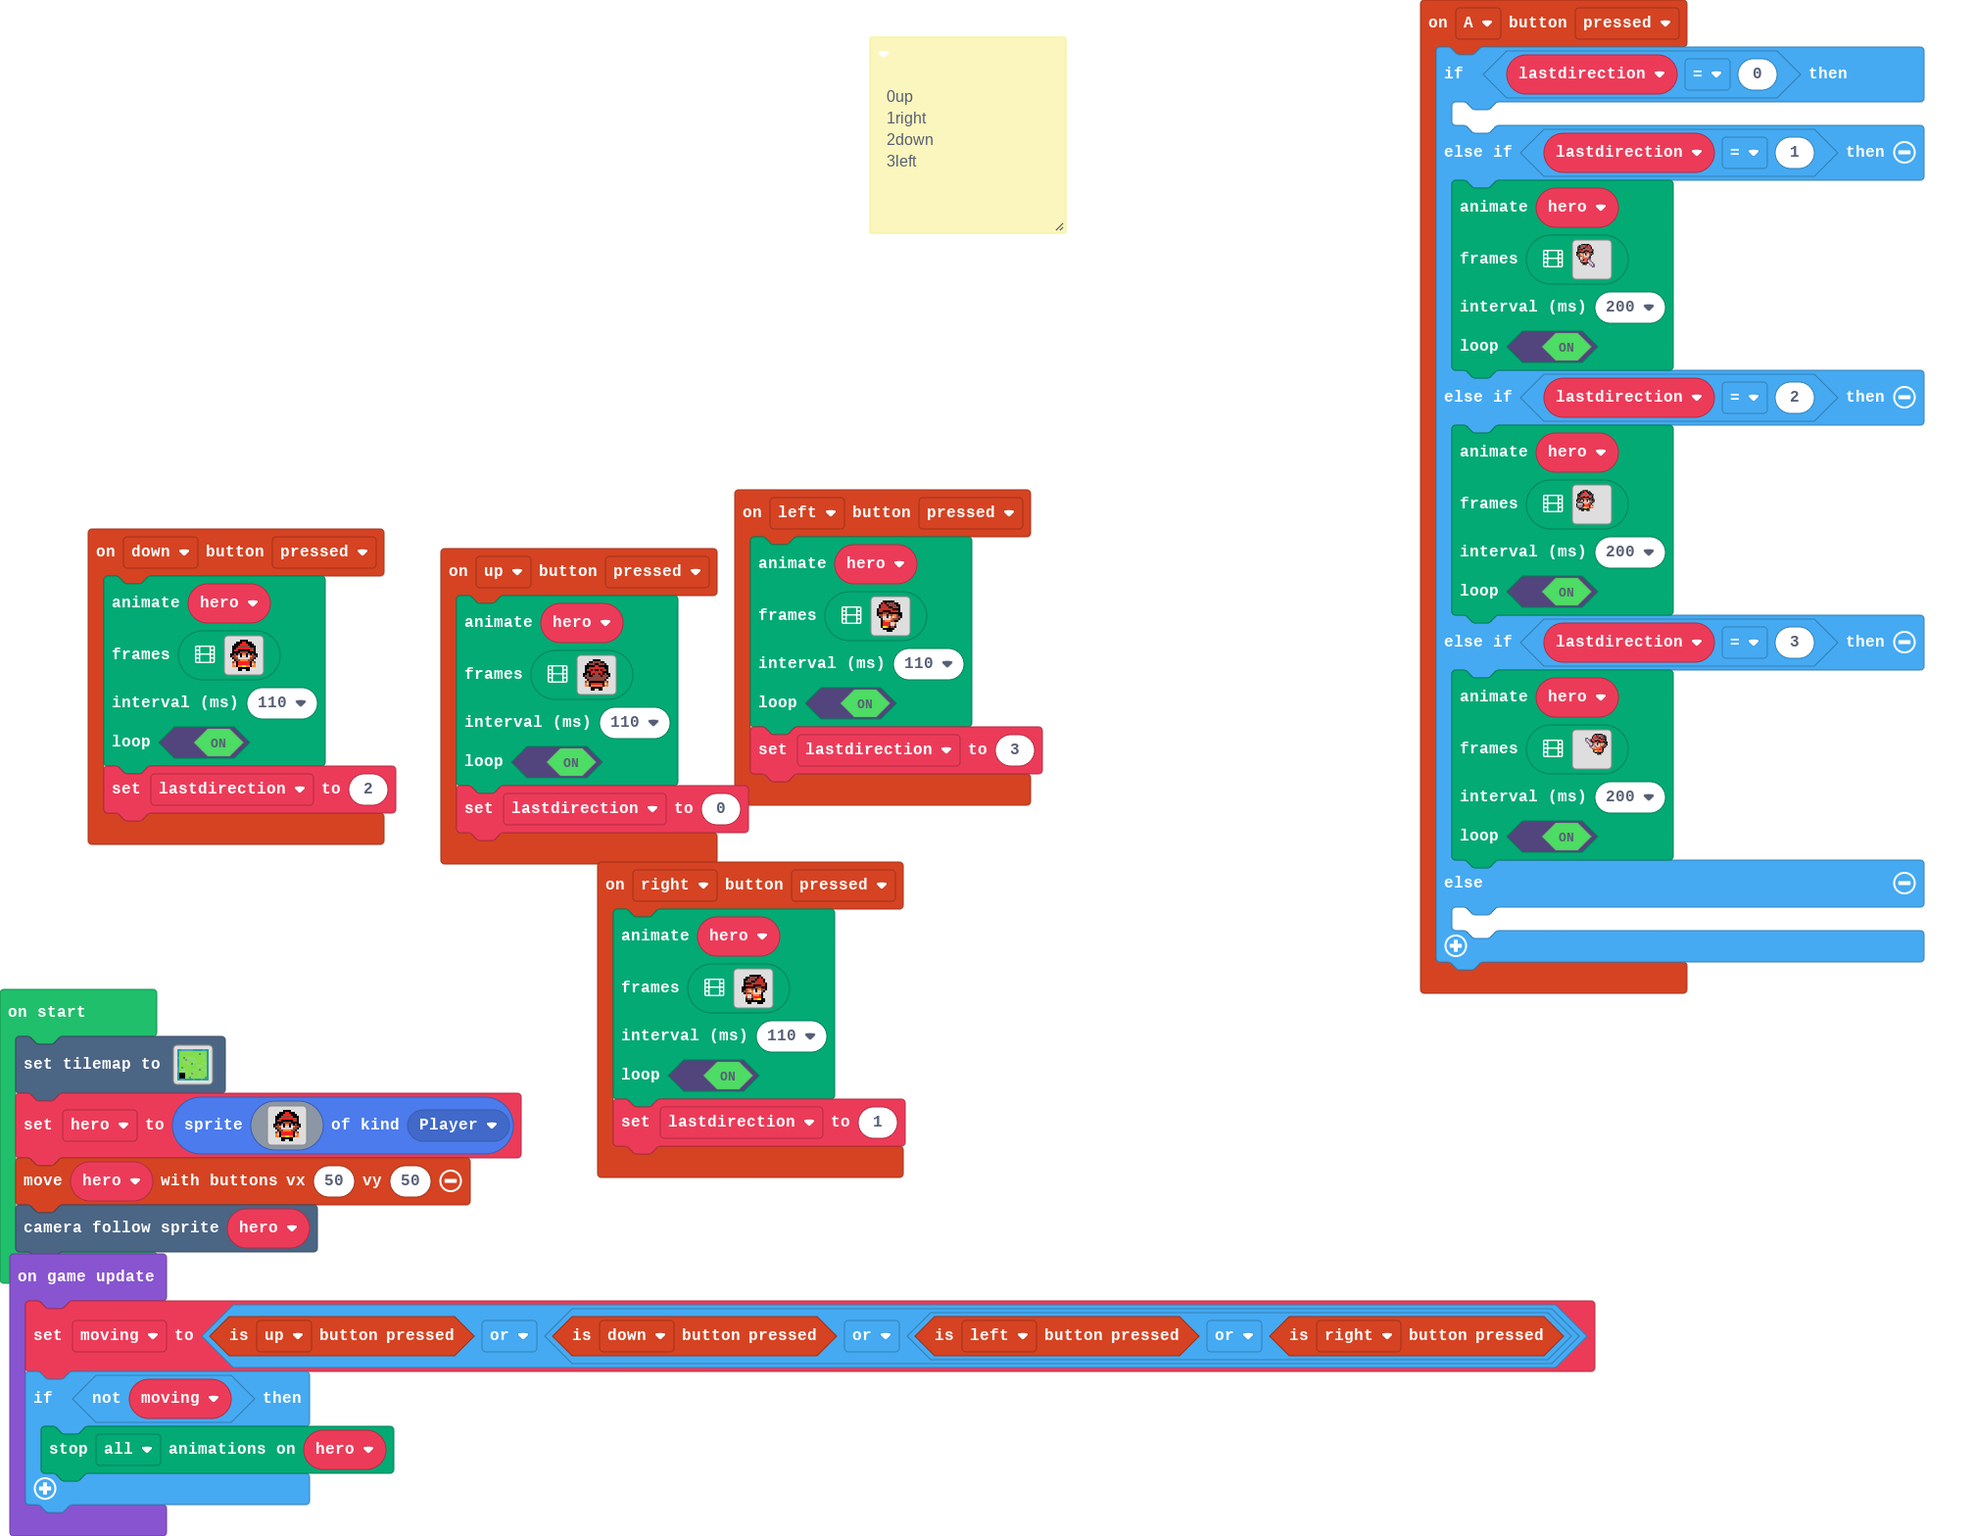
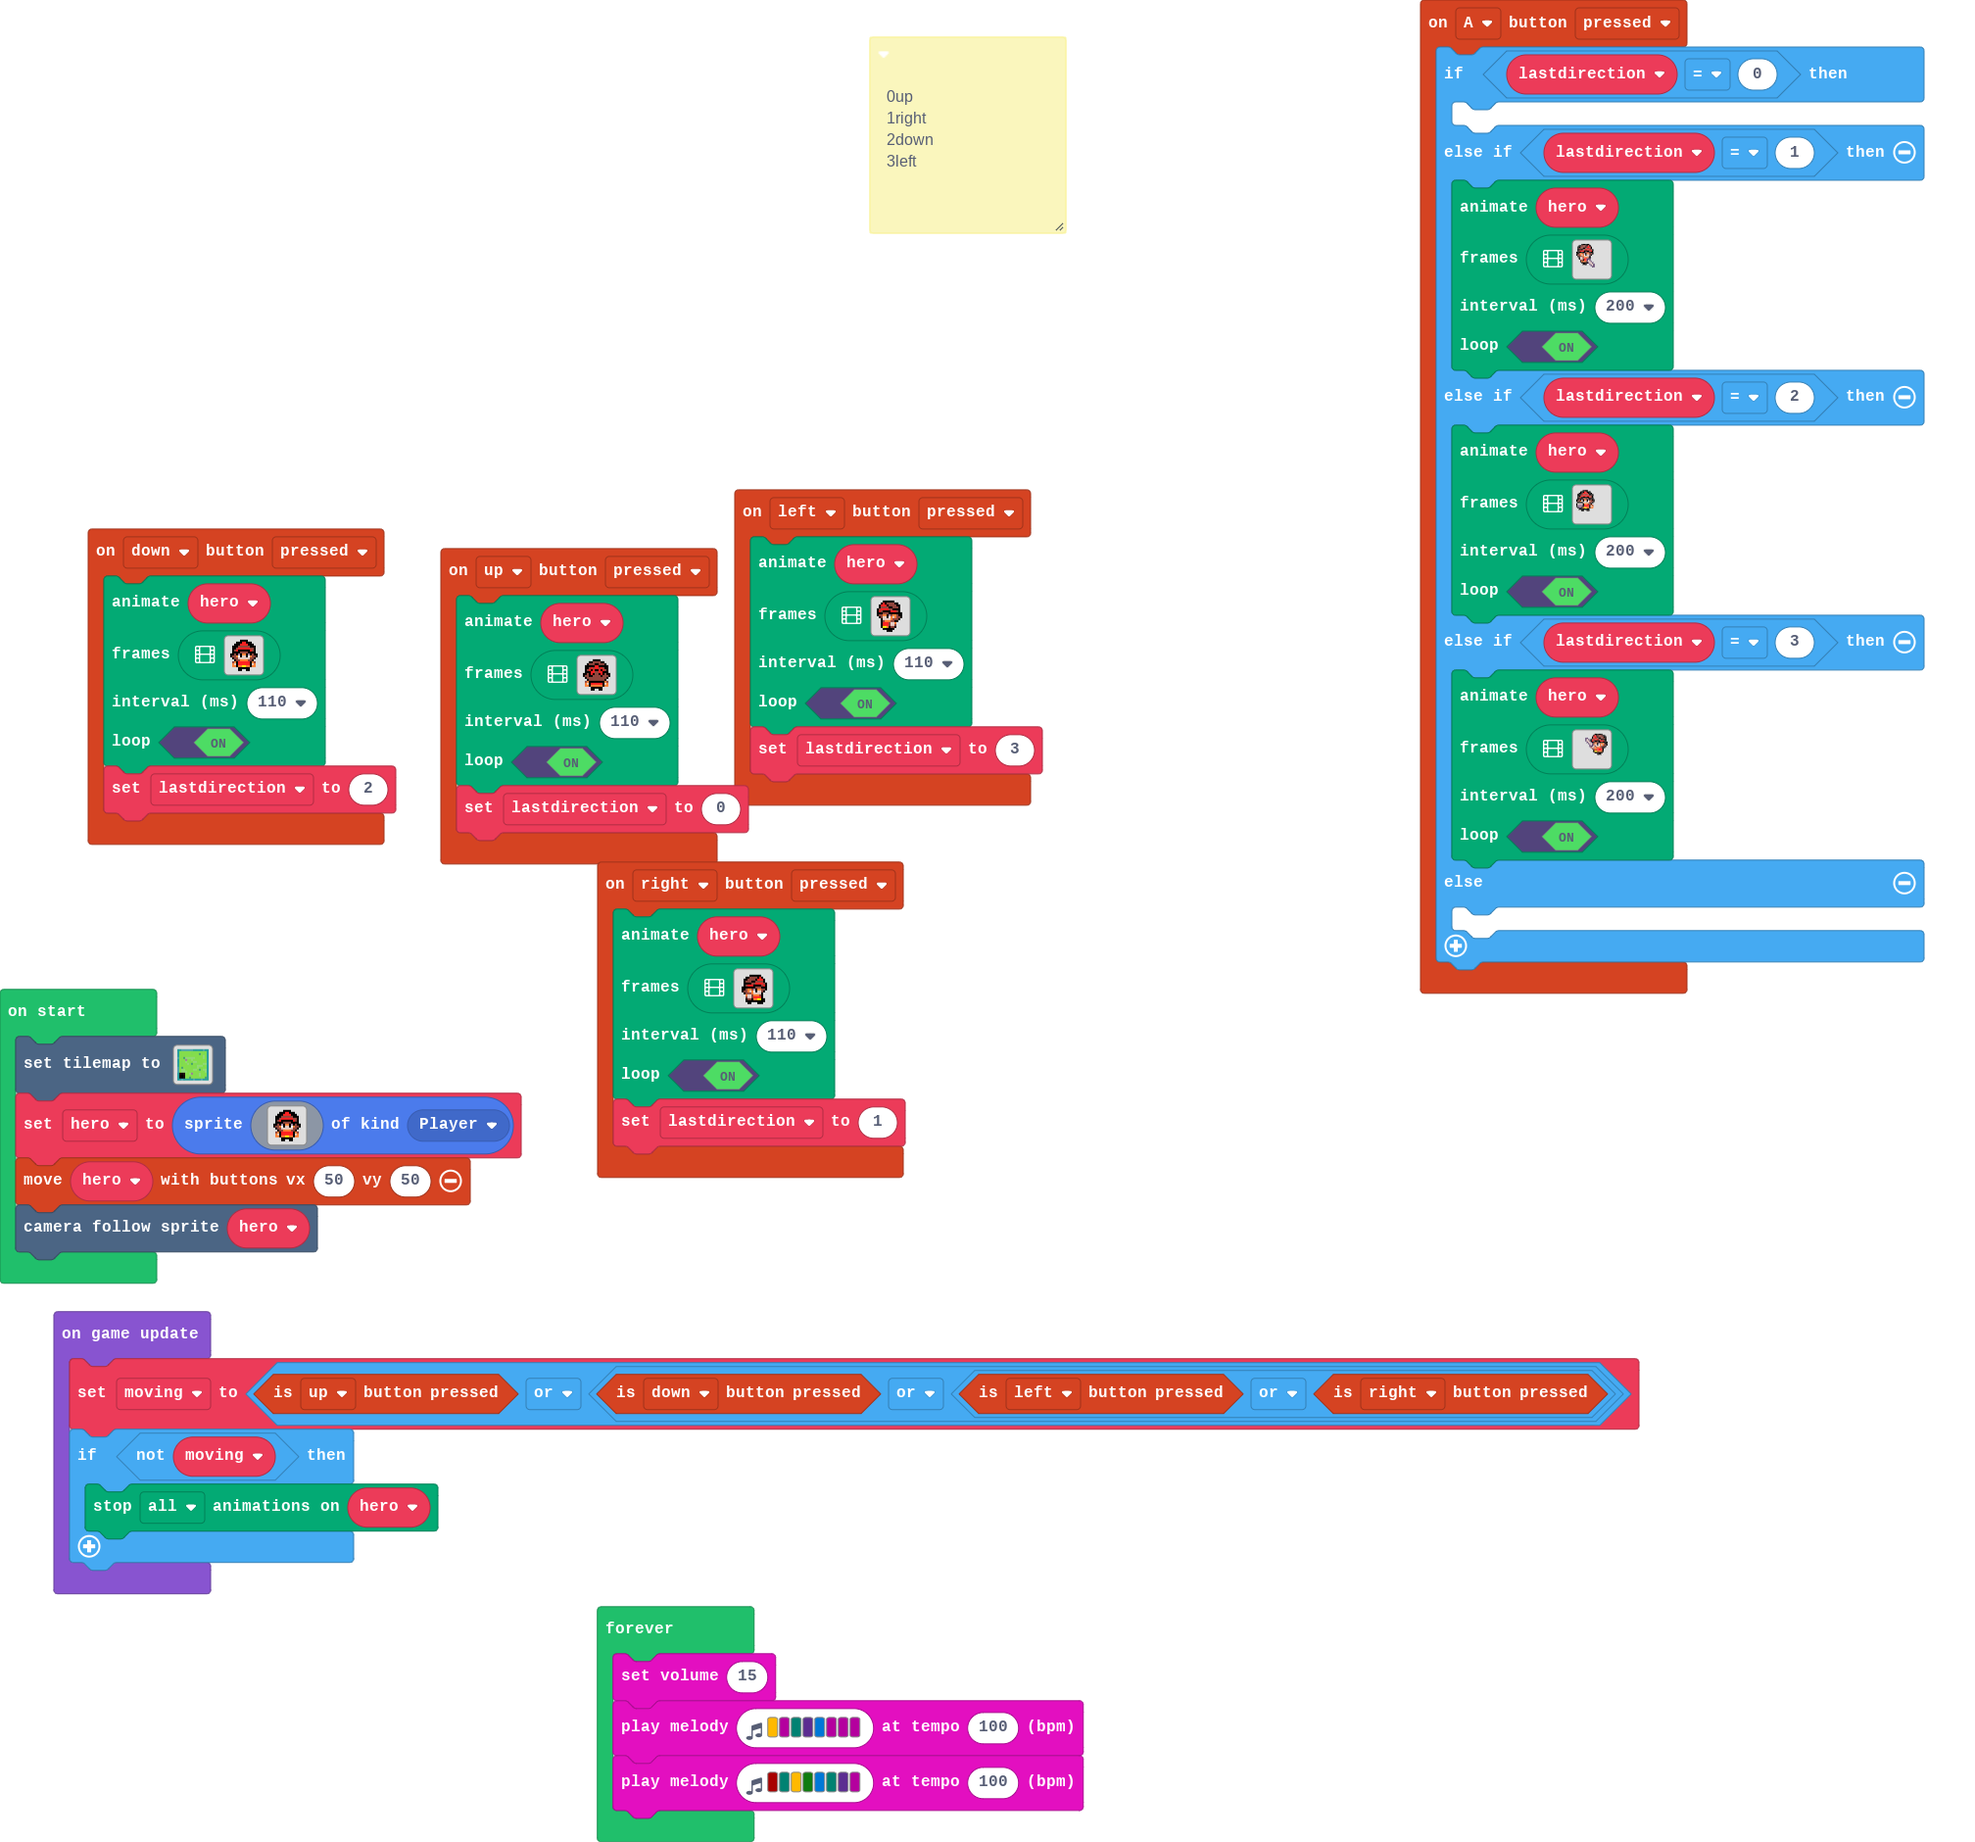
Wed 6-16 2:18 2021

diff --git a/tilemap.g.ts b/tilemap.g.ts
@@ -2,6 +2,8 @@
 namespace myTiles {
     //% fixedInstance jres blockIdentity=images._tile
     export const transparency16 = image.ofBuffer(hex``);
+    //% fixedInstance jres blockIdentity=images._tile
+    export const tile1 = image.ofBuffer(hex``);
 
     helpers._registerFactory("tilemap", function(name: string) {
         switch(helpers.stringTrim(name)) {
@@ -24,6 +26,44 @@ namespace myTiles {
 . . . . . . . . . . . . . . . . 
 . . . . . . . . . . . . . . . . 
 `, [myTiles.transparency16,sprites.castle.tileGrass1,sprites.castle.tileGrass3,sprites.builtin.forestTiles0,sprites.builtin.forestTiles5,sprites.builtin.forestTiles7,sprites.builtin.forestTiles13,sprites.builtin.forestTiles15,sprites.castle.tileGrass2,sprites.builtin.forestTiles6,sprites.builtin.forestTiles9,sprites.builtin.forestTiles14,sprites.builtin.forestTiles11,sprites.builtin.forestTiles10,sprites.castle.rock1,sprites.castle.tileDarkGrass3,sprites.castle.tileDarkGrass2,sprites.castle.tileDarkGrass1], TileScale.Sixteen);
+            case "level2":
[1 lines of base64/hex data omitted]
+. . . . . . . . . . . . . . . . 
+. . . . . . . . . . . . . . . . 
+. . . . . . . . . . . . . . . . 
+. . . . . . . . . . . . . . . . 
+. . . . . . . . . . . . . . . . 
+. . . . . . . . . . . . . . . . 
+. . . . . . . . . . . . . . . . 
+. . . . . . . . . . . . . . . . 
+. . . . . . . . . . . . . . . . 
+. . . . . . . . . . . . . . . . 
+. . . . . . . . . . . . . . . . 
+. . . . . . . . . . . . . . . . 
+. . . . . . . . . . . . . . . . 
+. . . . . . . . . . . . . . . . 
+. . . . . . . . . . . . . . . . 
+. . . . . . . . . . . . . . . . 
+`, [myTiles.transparency16,sprites.castle.tileDarkGrass2,sprites.castle.tileDarkGrass3,sprites.castle.tileDarkGrass1,sprites.builtin.forestTiles0,sprites.castle.tilePath5,sprites.castle.tilePath3,sprites.castle.tilePath2,sprites.castle.tilePath6,sprites.castle.tilePath7,sprites.castle.tilePath1,sprites.castle.tilePath4,sprites.castle.tilePath8,sprites.castle.tilePath9,myTiles.tile1,sprites.builtin.forestTiles5,sprites.builtin.forestTiles15,sprites.builtin.forestTiles7,sprites.builtin.forestTiles13], TileScale.Sixteen);
+            case "level3":
+            case "level3":return tiles.createTilemap(hex`1000100000000000000000000000000000000000000000000000000000000000000000000000000000000000000000000000000000000000000000000000000000000000000000000000000000000000000000000000000000000000000000000000000000000000000000000000000000000000000000000000000000000000000000000000000000000000000000000000000000000000000000000000000000000000000000000000000000000000000000000000000000000000000000000000000000000000000000000000000000000000000000000000000000000000000000000000000000000000000000000000000000000000000000000000000000000000`, img`
+. . . . . . . . . . . . . . . . 
+. . . . . . . . . . . . . . . . 
+. . . . . . . . . . . . . . . . 
+. . . . . . . . . . . . . . . . 
+. . . . . . . . . . . . . . . . 
+. . . . . . . . . . . . . . . . 
+. . . . . . . . . . . . . . . . 
+. . . . . . . . . . . . . . . . 
+. . . . . . . . . . . . . . . . 
+. . . . . . . . . . . . . . . . 
+. . . . . . . . . . . . . . . . 
+. . . . . . . . . . . . . . . . 
+. . . . . . . . . . . . . . . . 
+. . . . . . . . . . . . . . . . 
+. . . . . . . . . . . . . . . . 
+. . . . . . . . . . . . . . . . 
+`, [myTiles.transparency16], TileScale.Sixteen);
         }
         return null;
     })
@@ -31,6 +71,8 @@ namespace myTiles {
     helpers._registerFactory("tile", function(name: string) {
         switch(helpers.stringTrim(name)) {
             case "transparency16":return transparency16;
+            case "myTile":
+            case "tile1":return tile1;
         }
         return null;
     })

diff --git a/main.ts b/main.ts
@@ -1,3 +1,6 @@
+namespace StatusBarKind {
+    export const herohealth = StatusBarKind.create()
+}
 /**
  * 0up
  * 
@@ -722,4 +725,9 @@ game.onUpdate(function () {
     if (!(moving)) {
         animation.stopAnimation(animation.AnimationTypes.All, hero)
     }
+})
+forever(function () {
+    music.setVolume(15)
+    music.playMelody("A C F D E C C C ", 100)
+    music.playMelody("C5 F A G E F D C ", 100)
 })
